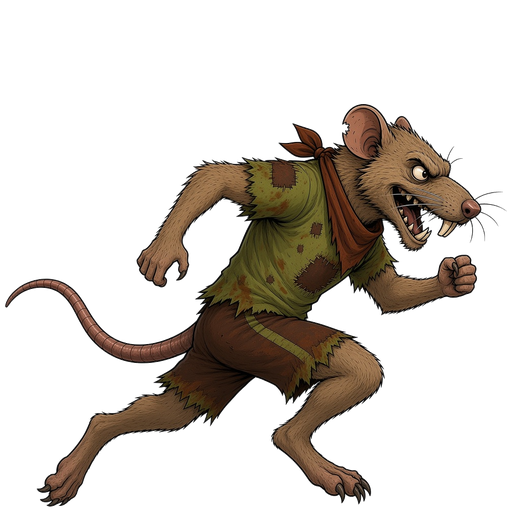
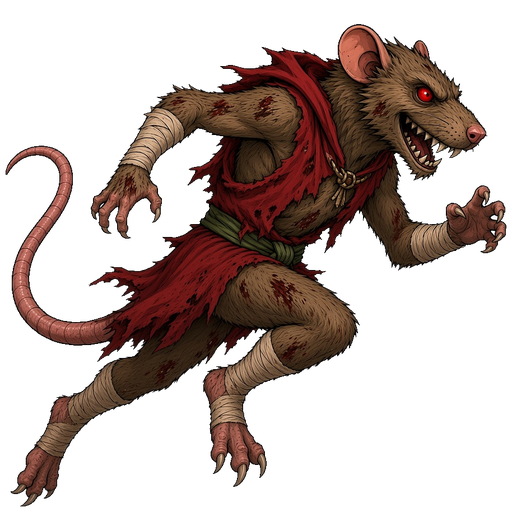
Plague Cult Rat-folk, rat colors, fix duplicated opening commentary line

diff --git a/src/data.js b/src/data.js
@@ -254,7 +254,7 @@ export const RACES = [
     style: 'very fast',
     trait: 'swift',
     recruitCost: 80,
-    colors: { primary: '#8d6a4a', secondary: '#c0392b', skin: '#c4a484', dark: '#2a1c14', ink: '#140e0c' },
+    colors: { primary: '#9e2a22', secondary: '#8fbf3a', skin: '#8a6a4a', dark: '#3a0e0c', ink: '#140e0c' },
     emblem: 'snout',
     base: { strength: 4, speed: 6, agility: 5, passing: 5 },
     positions: [

diff --git a/src/game.js b/src/game.js
@@ -1047,7 +1047,8 @@ function drawMatch(ctx) {
   ctx.fillRect(0, 508, 800, 92);
   ctx.fillStyle = '#f4e6cf';
   ctx.font = '18px Courier New';
-  const prev = res.events[Math.max(0, res.events.indexOf(ev) - 1)];
+  const evIndex = res.events.indexOf(ev);
+  const prev = evIndex > 0 ? res.events[evIndex - 1] : null;
   if (prev) {
     ctx.fillStyle = '#8d7b66';
     ctx.fillText(prev.text.slice(0, 72), 16, 540);
